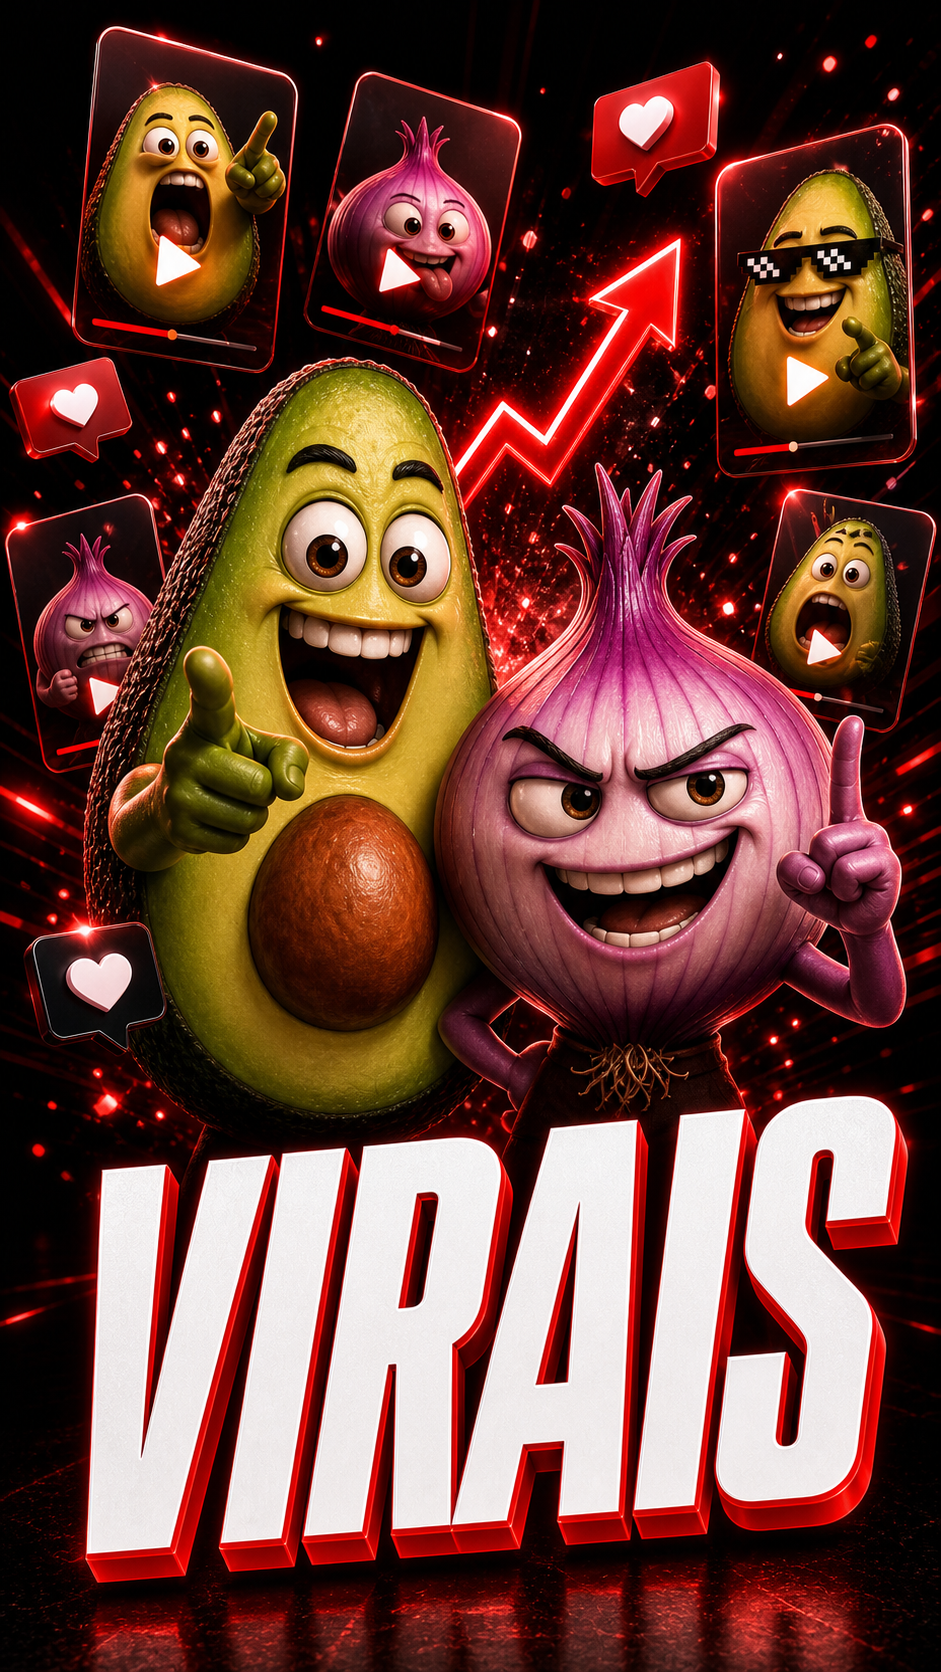
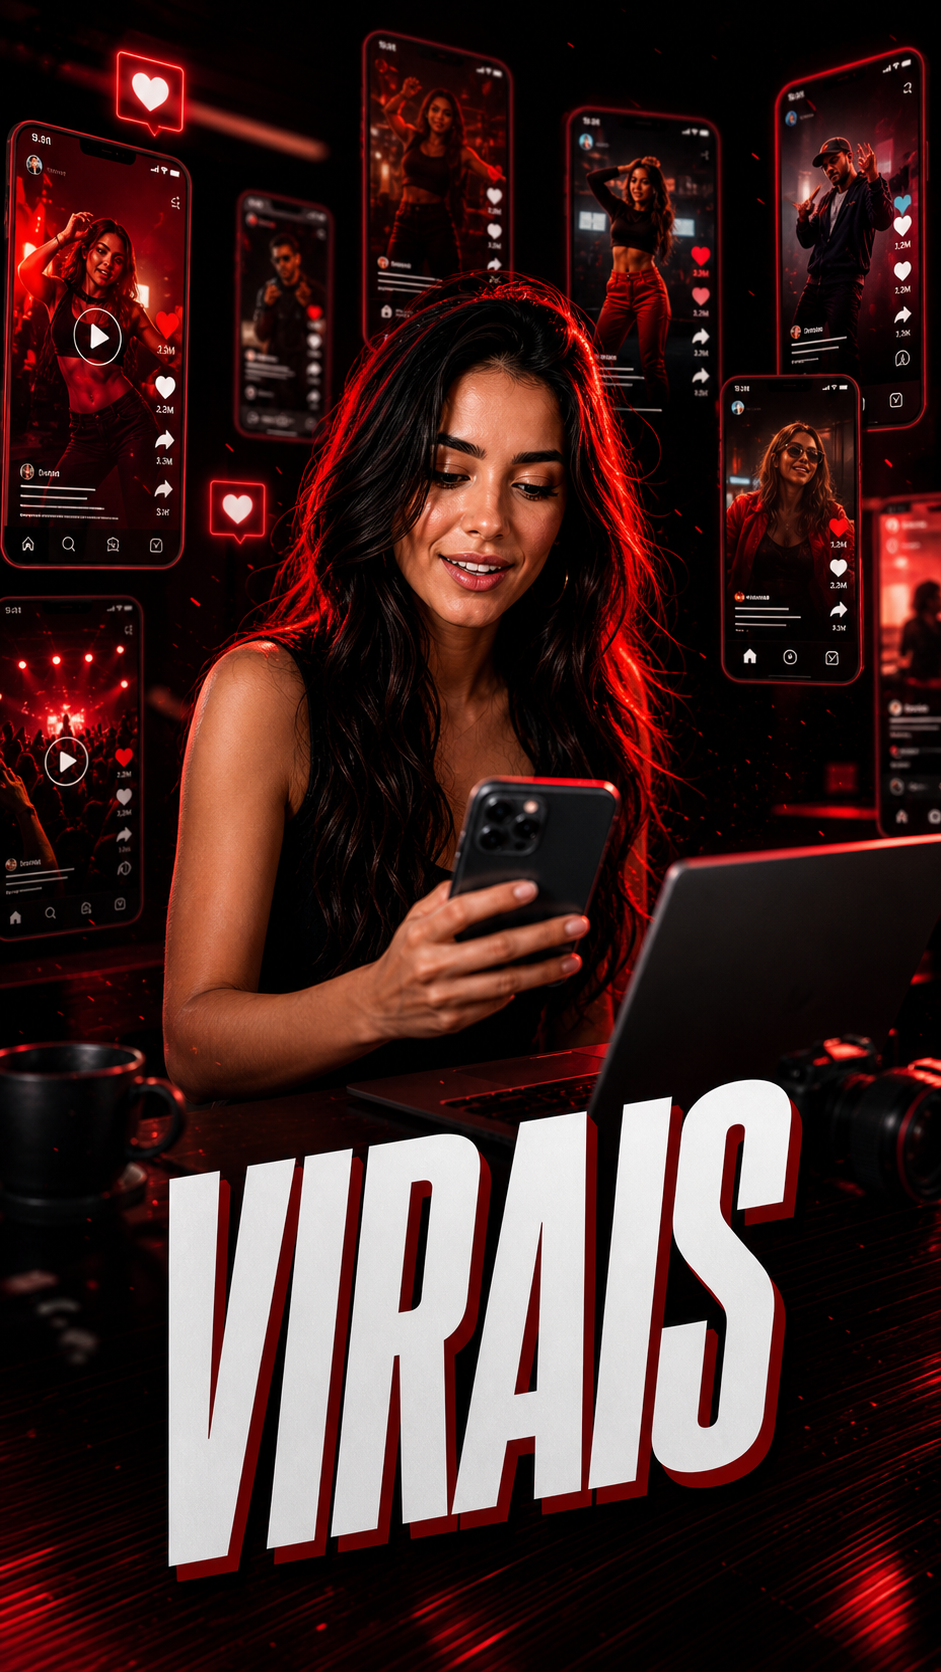
Adiciona card de videos virais

diff --git a/index.html b/index.html
@@ -1780,6 +1780,7 @@
             <button class="filter-btn" data-filter="VSL">VSL</button>
             <button class="filter-btn" data-filter="POV">POV</button>
             <button class="filter-btn" data-filter="Lan&ccedil;amentos">Lan&ccedil;amentos</button>
+            <button class="filter-btn" data-filter="Virais">Virais</button>
           </div>
           <div class="portfolio-grid" id="portfolioGrid">
             <!--
@@ -1852,6 +1853,14 @@
               <div class="portfolio-info">
                 <div class="project-name">Lan&ccedil;amentos e Novidades</div>
                 <div class="project-meta">Lan&ccedil;amentos &middot; Campanhas recentes</div>
+                <button class="watch-btn js-watch">Assistir v&iacute;deo</button>
+              </div>
+            </article>
+            <article class="glass-card portfolio-card reveal" data-format="Virais" data-name="V&iacute;deos Virais" data-segment="Conte&uacute;do de alto alcance" data-video="" style="--thumb-bg: url('assets/capas-videos/virais.png') center / cover;">
+              <div class="reel-thumb"><span class="play-chip" aria-hidden="true"></span></div>
+              <div class="portfolio-info">
+                <div class="project-name">V&iacute;deos Virais</div>
+                <div class="project-meta">Virais &middot; Conte&uacute;do de alto alcance</div>
                 <button class="watch-btn js-watch">Assistir v&iacute;deo</button>
               </div>
             </article>